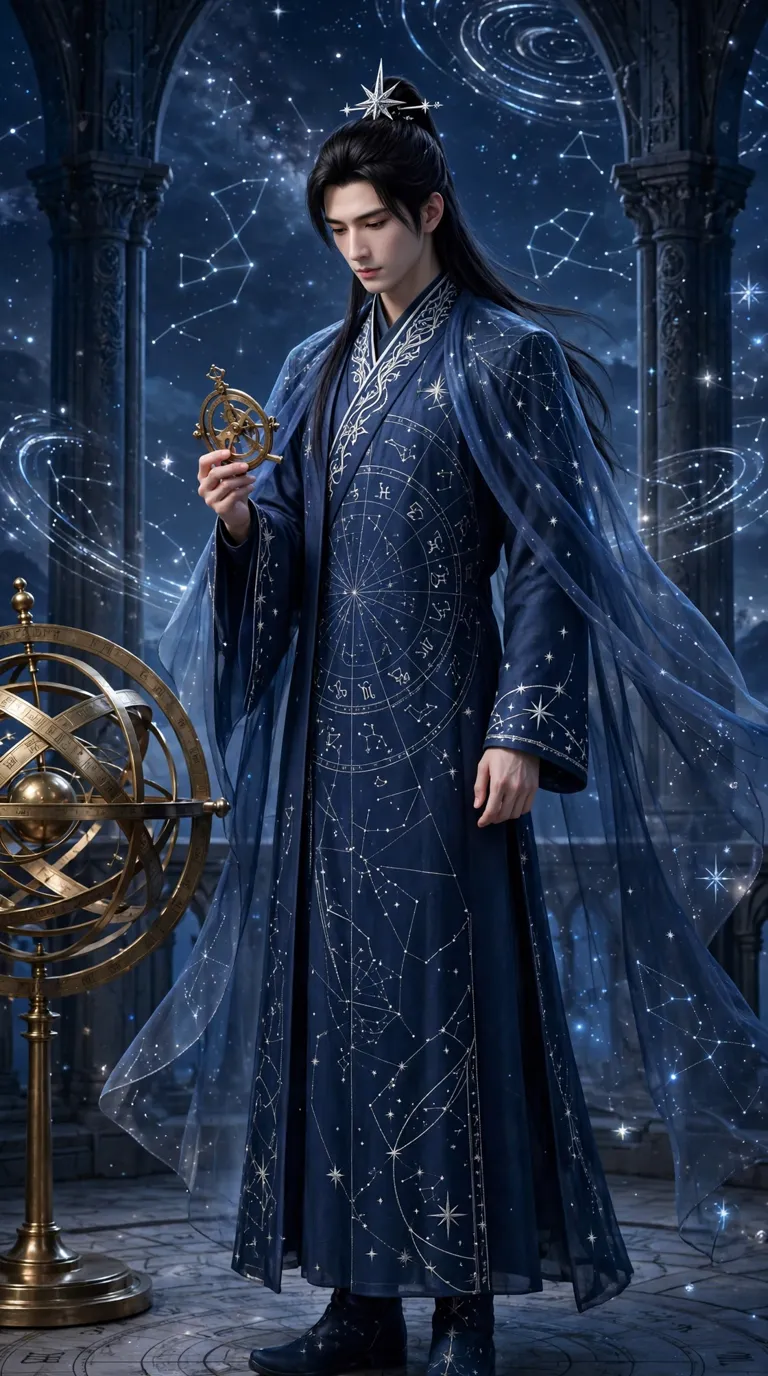
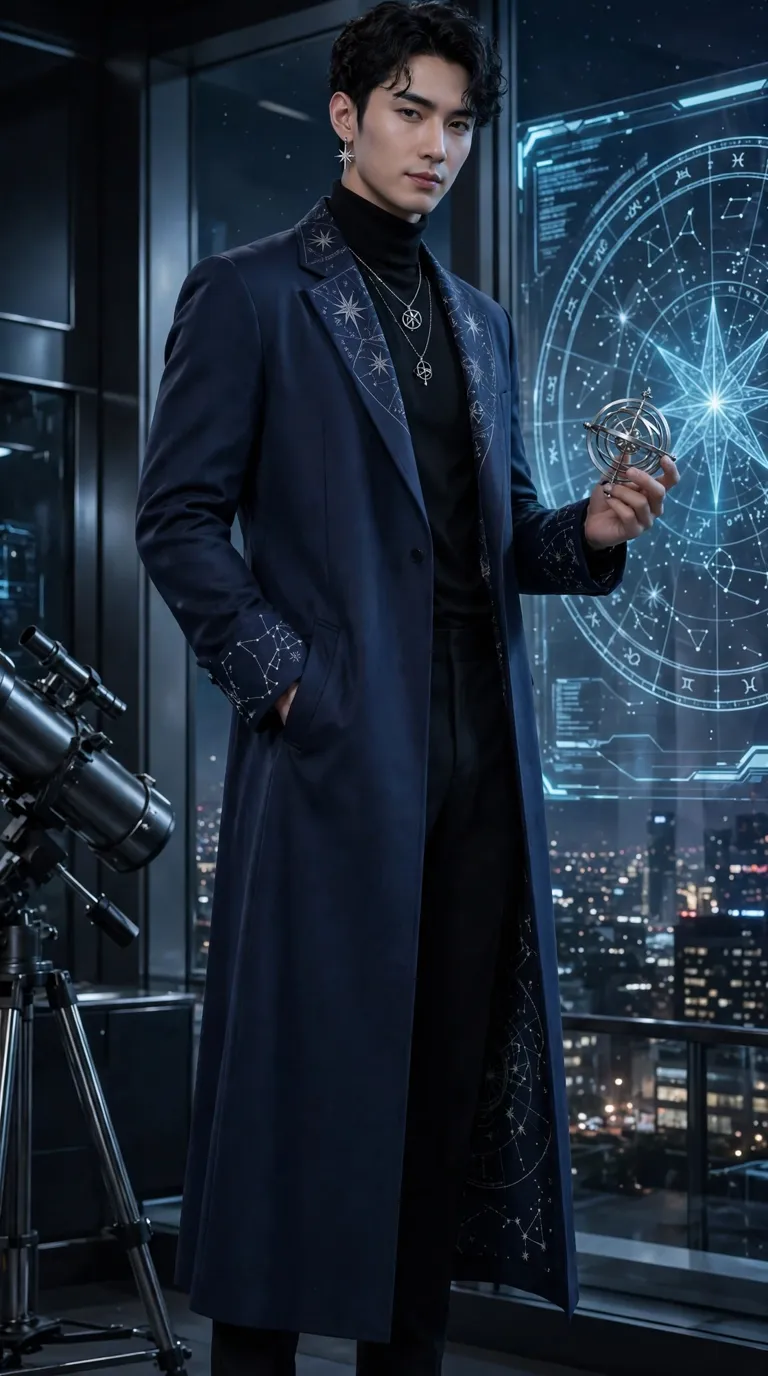
V6.1 星罗定妆 v3：现代酷感男性版（长大衣+黑高领+现代天文台全息星盘），v2 古风版作废，占位素材与 alt 同步

diff --git a/src/character/characters.data.js b/src/character/characters.data.js
@@ -164,7 +164,7 @@ export const XINGLUO = defineCharacter({
   name: '星罗',
   camera: { closeScale: 1.5, safeX: .5, safeInset: .05 },
   assets: {
-    portrait: { src: './art/xingluo-cinema3d.webp', alt: '星罗立于星盘与浑天仪之间，手持黄铜星盘', width: 768, height: 1376 },
+    portrait: { src: './art/xingluo-cinema3d.webp', alt: '星罗站在现代天文台落地窗前，手持金属星球仪，身后是全息星盘投影', width: 768, height: 1376 },
     avatar: { src: './art/xingluo-cinema3d-avatar.webp', alt: '', width: 192, height: 192 },
   },
 });

diff --git a/docs/v6.1-guides.md b/docs/v6.1-guides.md
@@ -29,6 +29,6 @@ V6.1 是一次引路人体系的整体革新：六位引路人各有明确专长
 ## 落地顺序
 
 1. 本规格 + 视角层（guide-perspective）+ 漏斗文案/调色板（entry-personas、funnel.html）——已在本分支完成，test:unit 全链通过。
-2. 定妆图四张（夕瑶微调 / 焱绒重做 / 絮羽重做 / 星罗新角）候选版已出（docs/v6.1-candidates/）→ 待用户验脸；星罗候选图已先行接入分支作立绘/头像占位；v1 女性版已被用户否，v2 男性版为现行候选。
+2. 定妆图四张（夕瑶微调 / 焱绒重做 / 絮羽重做 / 星罗新角）候选版已出（docs/v6.1-candidates/）→ 待用户验脸；星罗候选图已先行接入分支作立绘/头像占位；v1 女性版、v2 古风男性版均已被用户否，现行候选为 v3 现代酷感男性版（现代长大衣＋黑高领＋现代天文台）。
 3. 按定妆换素材（立绘/眨眼/说话/头像/四段视频）、offline-assets 注册、双站同步部署。
 4. 专长深化：各专家在问问对话与工具页的默认引导（事业→career、财富→wealth、姻缘→relation/合盘、塔罗→tarot、占星→horoscope/western）。
